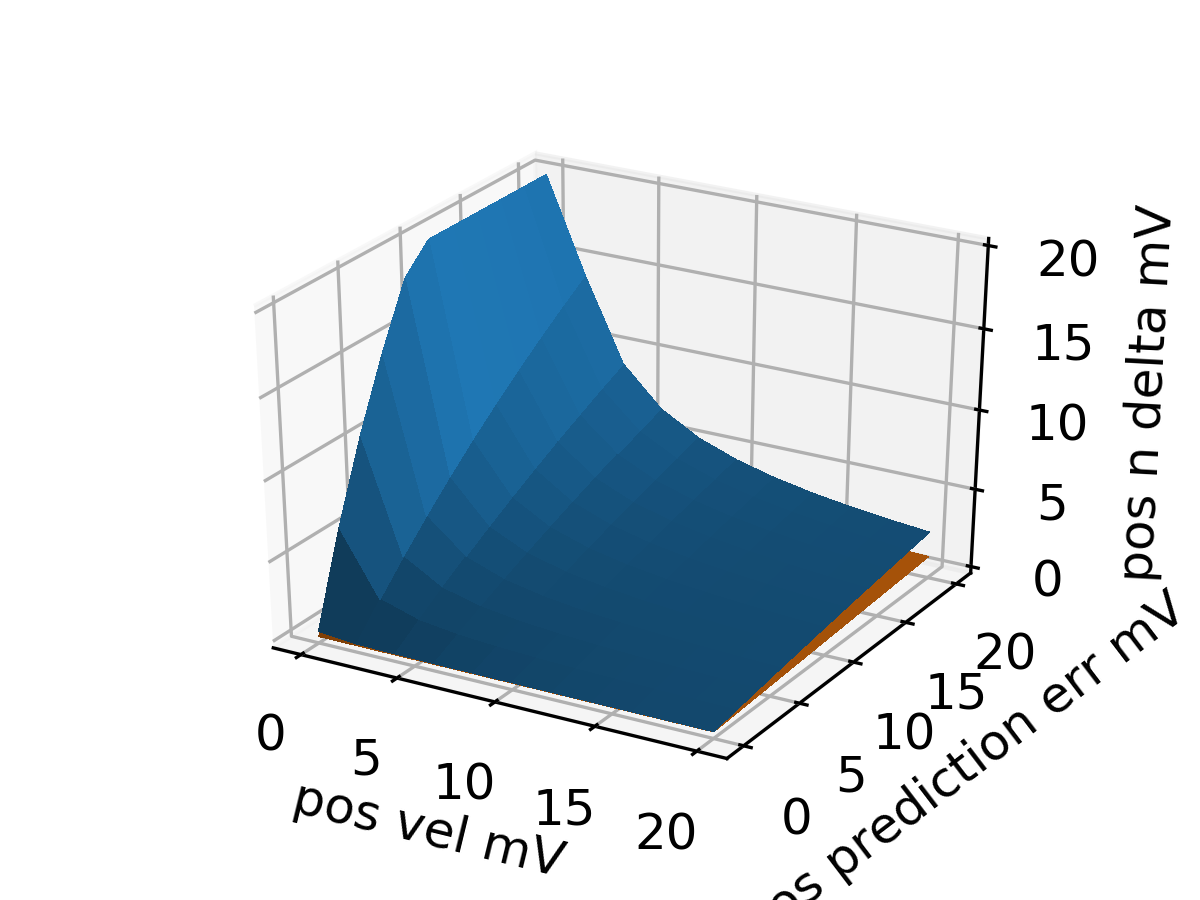
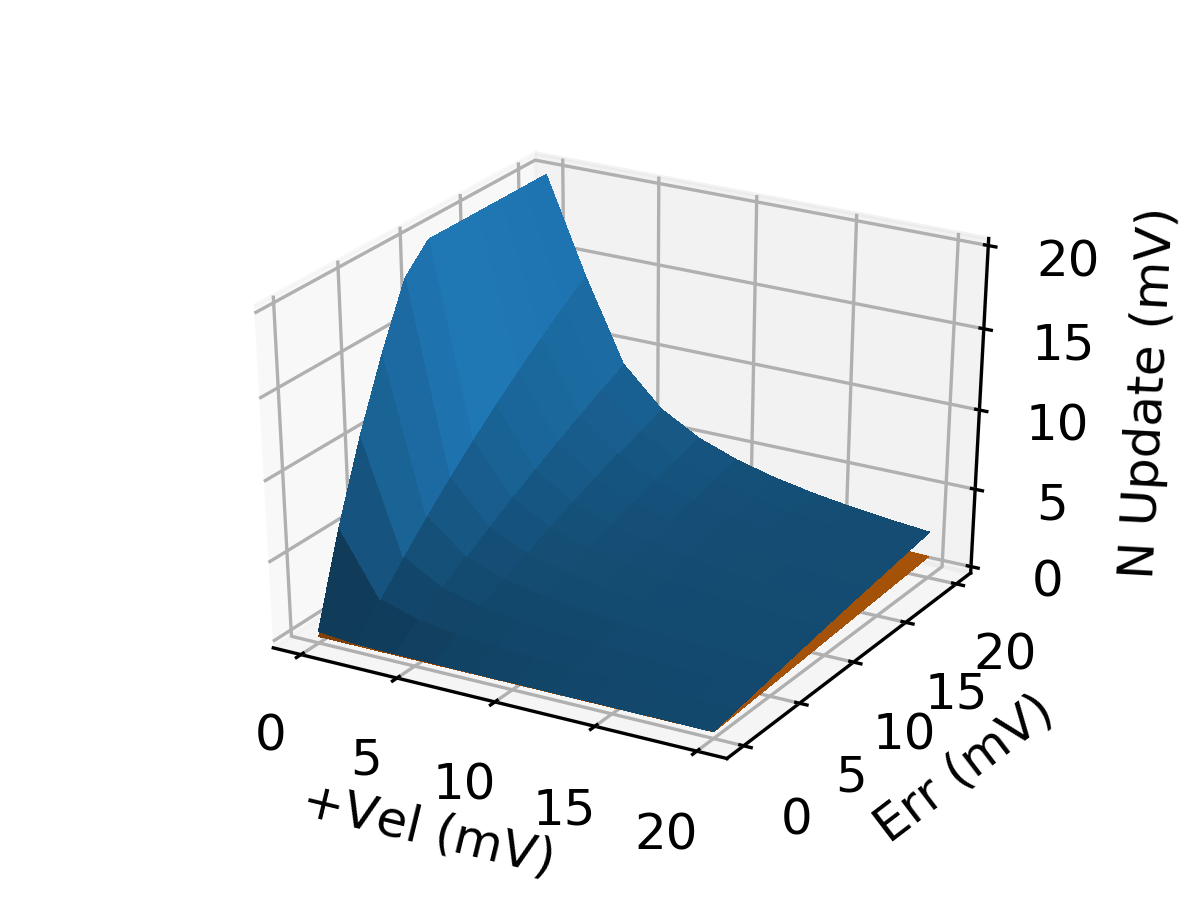
Redo some labels for System N

Changed region(s): [[0.6167, 0.2178, 0.9867, 1.0], [0.2467, 0.8711, 0.4933, 0.9644]]

diff --git a/multiviz/systemN.py b/multiviz/systemN.py
@@ -716,9 +716,9 @@ if __name__ == '__main__':
 
     surf = ax.plot_surface(X, Y, Z, linewidth=0, antialiased=False, label='Neuron')
     surf2 = ax.plot_surface(X, Y, Z_ref, linewidth=0, antialiased=False)
-    ax.set_xlabel(input0 + ' mV')
-    ax.set_ylabel(input1 + ' mV')
-    ax.set_zlabel(output_neuron + ' mV')
+    ax.set_xlabel('+Vel (mV)')
+    ax.set_ylabel('Err (mV)')
+    ax.set_zlabel('N Update (mV)')
     ticks = np.linspace(0, 20, 5)
     ax.set_xticks(ticks)
     ax.set_yticks(ticks)
